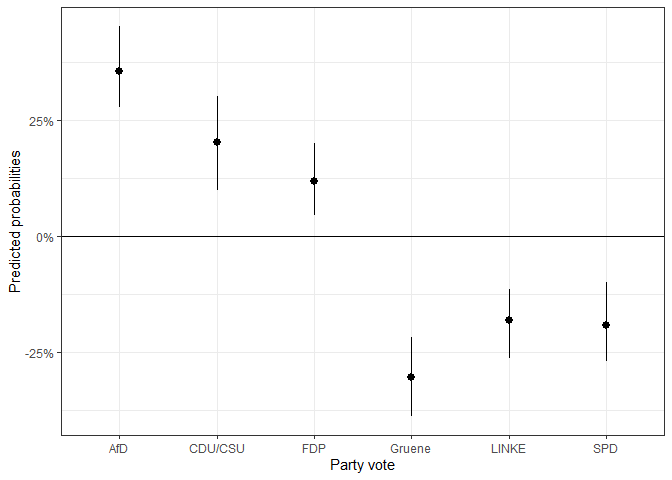
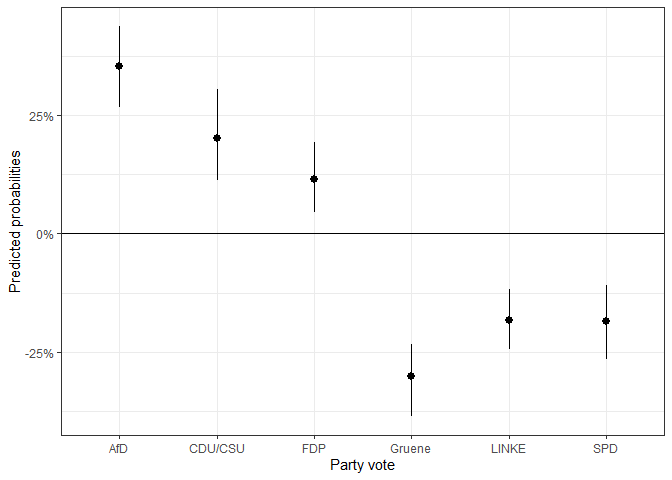
DOI included

diff --git a/README.md b/README.md
@@ -8,6 +8,7 @@
 [![GPLv3
 license](https://img.shields.io/badge/License-GPLv3-blue.svg)](https://perso.crans.org/besson/LICENSE.html)
 [![CRAN\_Status\_Badge](https://www.r-pkg.org/badges/version/MNLpred)](https://cran.r-project.org/package=MNLpred)
+[![DOI](https://zenodo.org/badge/DOI/10.5281/zenodo.4525343.svg)](https://doi.org/10.5281/zenodo.4525343)
 [![downloads](https://cranlogs.r-pkg.org/badges/MNLpred)](https://www.r-pkg.org/badges/version/MNLpred)
 [![total\_downloads](https://cranlogs.r-pkg.org/badges/grand-total/MNLpred)](https://www.r-pkg.org/badges/version/MNLpred)
 [![R build
@@ -251,10 +252,9 @@ pred1 <- mnl_pred_ova(model = mod1,
                       data = gles,
                       x = "egoposition_immigration",
                       by = 1,
-                      seed = "random", # default
+                      seed = 68159,
                       nsim = 100, # faster
                       probs = c(0.025, 0.975)) # default
-#> Warning: The argument xvari is deprecated; please use x instead.
 #> Multiplying values with simulated estimates:
 #> ================================================================================
 #> Applying link function:
@@ -267,13 +267,13 @@ returns a `plotdata` data set:
 
 ``` r
 pred1$plotdata %>% head()
-#>   egoposition_immigration vote        mean        lower       upper
-#> 1                       0  AfD 0.002574547 0.0008574365 0.005269062
-#> 2                       1  AfD 0.004858778 0.0019021238 0.009025602
-#> 3                       2  AfD 0.008979284 0.0040742059 0.015737725
-#> 4                       3  AfD 0.016200141 0.0085063523 0.026138105
-#> 5                       4  AfD 0.028434851 0.0172336365 0.040839788
-#> 6                       5  AfD 0.048346279 0.0332185247 0.064579199
+#>   egoposition_immigration vote        mean       lower       upper
+#> 1                       0  AfD 0.002419192 0.001025942 0.004913258
+#> 2                       1  AfD 0.004625108 0.002172854 0.008685788
+#> 3                       2  AfD 0.008653845 0.004472502 0.014698651
+#> 4                       3  AfD 0.015796304 0.008923480 0.025148142
+#> 5                       4  AfD 0.028022769 0.017756232 0.040861062
+#> 6                       5  AfD 0.048081830 0.033241425 0.063794110
 ```
 
 As we can see, it includes the range of the x variable, a mean, a lower,
@@ -313,8 +313,8 @@ fdif1 <- mnl_fd2_ova(model = mod1,
                      x = "egoposition_immigration",
                      value1 = min(gles$egoposition_immigration),
                      value2 = max(gles$egoposition_immigration),
+                     seed = 68159,
                      nsim = 100)
-#> Warning: The argument xvari is deprecated; please use x instead.
 #> Multiplying values with simulated estimates:
 #> ================================================================================
 #> Applying link function:
@@ -357,10 +357,8 @@ fdif2 <- mnl_fd_ova(model = mod1,
                     by = 1,
                     z = "gender",
                     z_values = c(0,1),
+                    seed = 68159,
                     nsim = 100)
-#> Warning: The argument xvari is deprecated; please use x instead.
-#> Warning: The argument scenname is deprecated; please use z instead.
-#> Warning: The argument scenvalues is deprecated; please use z_values instead.
 #> First scenario:
 #> Multiplying values with simulated estimates:
 #> ================================================================================
@@ -381,13 +379,13 @@ used to plot the differences.
 
 ``` r
 fdif2$plotdata_fd %>% head()
-#>   egoposition_immigration vote         mean        lower         upper
-#> 1                       0  AfD -0.003129881 -0.006782947 -0.0009810147
-#> 2                       1  AfD -0.005879401 -0.011921863 -0.0021165459
-#> 3                       2  AfD -0.010785318 -0.020425260 -0.0045423940
-#> 4                       3  AfD -0.019243999 -0.034364021 -0.0090925282
-#> 5                       4  AfD -0.033227369 -0.055568701 -0.0168962111
-#> 6                       5  AfD -0.055135529 -0.086503541 -0.0293905629
+#>   egoposition_immigration vote         mean        lower        upper
+#> 1                       0  AfD -0.002861681 -0.006172786 -0.001206796
+#> 2                       1  AfD -0.005396410 -0.010531302 -0.002537904
+#> 3                       2  AfD -0.009942124 -0.017921934 -0.005038667
+#> 4                       3  AfD -0.017827751 -0.029548569 -0.009657235
+#> 5                       4  AfD -0.030957366 -0.046960384 -0.017810853
+#> 6                       5  AfD -0.051691516 -0.071903589 -0.031438906
 ```
 
 Since the function calls the `mnl_pred_ova()` function internally, it
